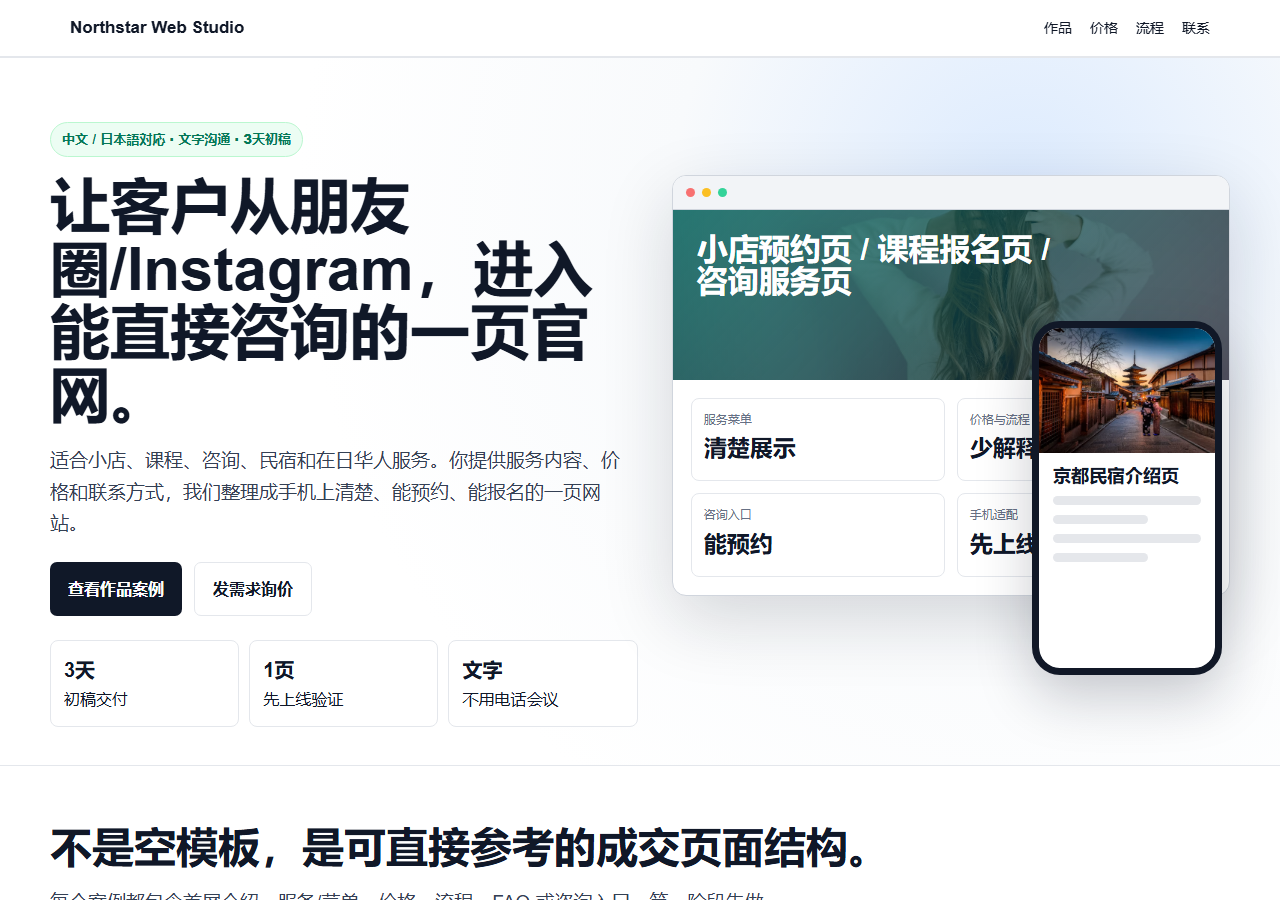
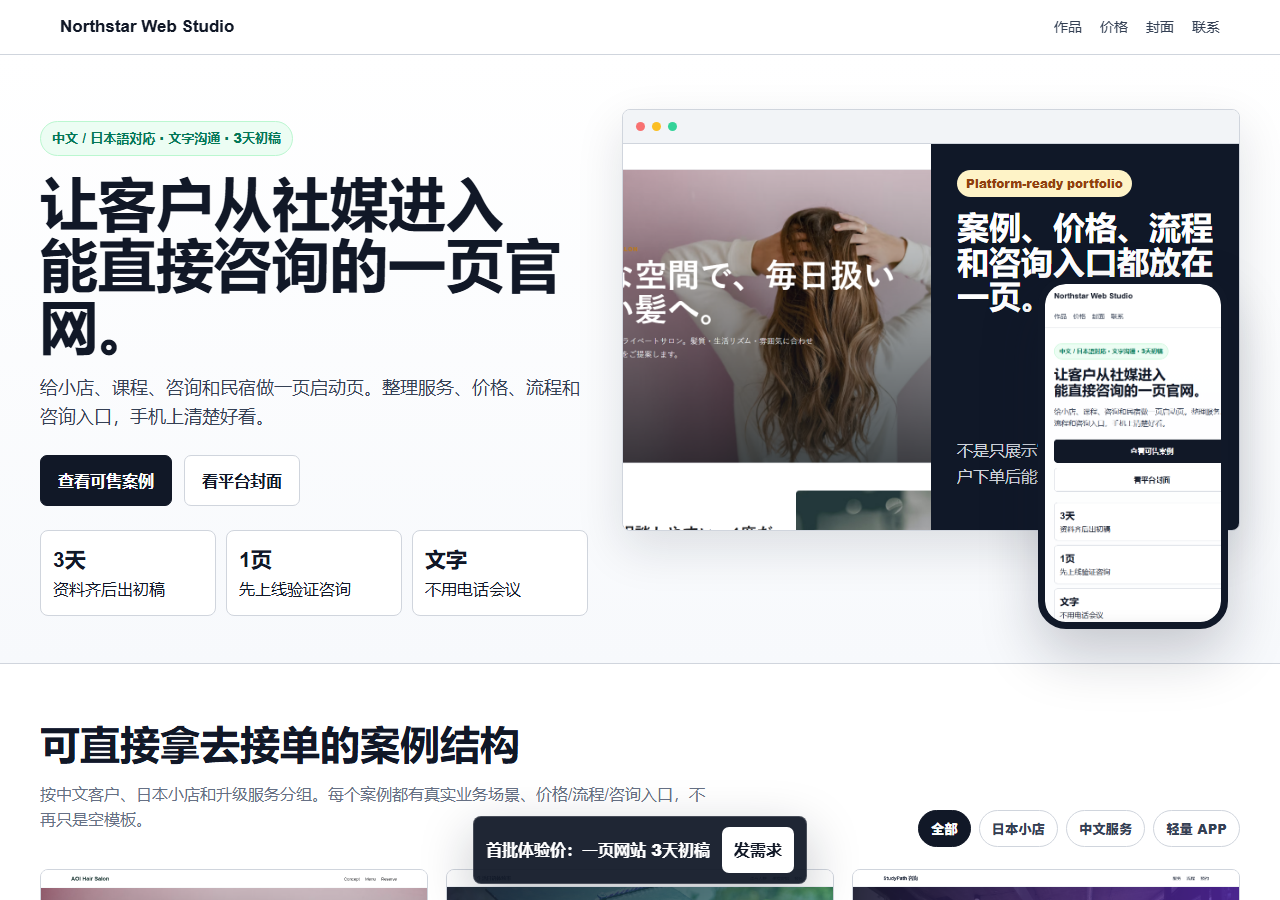
Add interactive portfolio experience

diff --git a/index.html b/index.html
@@ -3,159 +3,292 @@
 <head>
   <meta charset="utf-8">
   <meta name="viewport" content="width=device-width, initial-scale=1">
-  <title>Northstar Web Studio | 中文 / 日本語一页网站制作</title>
+  <title>Northstar Web Studio | 中文 / 日本語一页网站制作作品集</title>
   <style>
-    :root{--ink:#101828;--muted:#667085;--line:#e4e7ec;--paper:#fff;--soft:#f7f8fb;--teal:#0f766e;--blue:#2563eb;--gold:#d97706;--rose:#be123c}
+    :root{
+      --ink:#111827;--muted:#667085;--line:#d0d5dd;--paper:#fff;--soft:#f6f8fb;
+      --teal:#0f766e;--blue:#2563eb;--gold:#b45309;--rose:#be123c;--green:#047857;
+      --shadow:0 18px 48px rgba(17,24,39,.12)
+    }
     *{box-sizing:border-box}
-    body{margin:0;font-family:Arial,"Microsoft YaHei","Hiragino Kaku Gothic ProN","Yu Gothic",sans-serif;color:var(--ink);background:var(--soft);line-height:1.65}
-    header{position:sticky;top:0;z-index:20;background:rgba(255,255,255,.9);border-bottom:1px solid var(--line);backdrop-filter:blur(14px)}
-    nav{max-width:1180px;margin:auto;padding:14px 20px;display:flex;justify-content:space-between;align-items:center;gap:16px}
-    nav strong{font-size:17px}
-    nav a{color:var(--ink);text-decoration:none;margin-left:18px;font-size:14px}
-    .hero{padding:64px 20px 38px;background:radial-gradient(circle at 80% 20%,#dbeafe 0,#f8fafc 30%,#fff 62%)}
-    .wrap{max-width:1180px;margin:auto;width:100%}
-    .hero-grid{display:grid;grid-template-columns:1fr .95fr;gap:34px;align-items:center}
-    .eyebrow{display:inline-flex;align-items:center;gap:8px;background:#ecfdf3;color:#047857;border:1px solid #bbf7d0;border-radius:999px;padding:6px 11px;font-size:13px;font-weight:800;margin-bottom:18px}
-    h1{font-size:clamp(36px,5vw,60px);line-height:1.05;margin:0 0 18px;letter-spacing:0;max-width:680px}
-    h2{font-size:clamp(27px,4vw,42px);line-height:1.15;margin:0 0 14px;letter-spacing:0}
-    h3{margin:0 0 8px;font-size:20px}
+    html{scroll-behavior:smooth}
+    body{margin:0;font-family:Arial,"Microsoft YaHei","Hiragino Kaku Gothic ProN","Yu Gothic",sans-serif;color:var(--ink);background:var(--soft);line-height:1.62;overflow-x:hidden}
+    a{color:inherit}
+    header{position:sticky;top:0;z-index:50;background:rgba(255,255,255,.94);border-bottom:1px solid var(--line);backdrop-filter:blur(12px)}
+    nav{max-width:1200px;margin:auto;padding:13px 20px;display:flex;justify-content:space-between;align-items:center;gap:18px}
+    nav strong{font-size:17px;white-space:nowrap}
+    nav a{text-decoration:none;margin-left:18px;font-size:14px;color:#344054}
+    .wrap{max-width:1200px;margin:auto;width:100%}
+    .hero{background:linear-gradient(180deg,#fff,#f7f9fc);padding:54px 20px 34px;border-bottom:1px solid var(--line)}
+    .hero-grid{display:grid;grid-template-columns:.94fr 1.06fr;gap:34px;align-items:center}
+    .eyebrow{display:inline-flex;align-items:center;gap:8px;border:1px solid #bbf7d0;background:#ecfdf3;color:#047857;border-radius:999px;padding:6px 11px;font-size:13px;font-weight:800;margin-bottom:18px}
+    h1{font-size:clamp(34px,5vw,58px);line-height:1.06;letter-spacing:0;margin:0 0 16px;max-width:720px;overflow-wrap:anywhere;word-break:normal}
+    h2{font-size:clamp(26px,3.5vw,40px);line-height:1.15;letter-spacing:0;margin:0 0 14px}
+    h3{font-size:20px;margin:0 0 8px}
     p{margin:0 0 14px}
-    .lead{font-size:19px;color:#344054;max-width:760px}
+    .lead{font-size:18px;color:#344054;max-width:760px}
     .actions{display:flex;gap:12px;flex-wrap:wrap;margin-top:22px}
-    .btn{display:inline-flex;align-items:center;justify-content:center;background:var(--ink);color:white;text-decoration:none;font-weight:900;border-radius:7px;padding:13px 18px}
-    .btn.alt{background:white;color:var(--ink);border:1px solid var(--line)}
-    .proof{display:grid;grid-template-columns:repeat(3,1fr);gap:10px;margin-top:24px;max-width:720px}
-    .proof div{background:white;border:1px solid var(--line);border-radius:8px;padding:13px}
-    .proof strong{display:block;font-size:20px}
-    .showcase{position:relative;min-height:500px}
-    .browser{background:white;border:1px solid #d0d5dd;border-radius:14px;box-shadow:0 24px 70px rgba(16,24,40,.16);overflow:hidden}
-    .bar{height:34px;background:#f2f4f7;border-bottom:1px solid #d0d5dd;display:flex;align-items:center;gap:7px;padding:0 13px}
+    .btn{display:inline-flex;align-items:center;justify-content:center;gap:8px;min-height:46px;padding:12px 17px;border-radius:7px;border:1px solid var(--ink);background:var(--ink);color:white;text-decoration:none;font-weight:900;cursor:pointer}
+    .btn.alt{background:white;color:var(--ink);border-color:var(--line)}
+    .btn.teal{background:var(--teal);border-color:var(--teal)}
+    .micro{display:grid;grid-template-columns:repeat(3,1fr);gap:10px;margin-top:24px;max-width:720px}
+    .micro div{background:white;border:1px solid var(--line);border-radius:8px;padding:12px}
+    .micro strong{display:block;font-size:21px}
+    .stage{position:relative;min-height:520px}
+    .desktop{background:white;border:1px solid var(--line);border-radius:8px;box-shadow:var(--shadow);overflow:hidden}
+    .windowbar{height:34px;background:#f2f4f7;border-bottom:1px solid var(--line);display:flex;align-items:center;gap:7px;padding:0 13px}
     .dot{width:9px;height:9px;border-radius:50%;background:#f87171}.dot:nth-child(2){background:#fbbf24}.dot:nth-child(3){background:#34d399}
-    .preview-hero{height:170px;background:linear-gradient(135deg,rgba(15,118,110,.85),rgba(16,24,40,.68)),url("https://images.unsplash.com/photo-1522337360788-8b13dee7a37e?auto=format&fit=crop&w=1000&q=80") center/cover;color:white;padding:24px}
-    .preview-hero b{font-size:31px;line-height:1.05;display:block;max-width:360px}
-    .preview-body{padding:18px;display:grid;grid-template-columns:1fr 1fr;gap:12px}
-    .mini-card{border:1px solid var(--line);border-radius:8px;padding:12px;background:#fff}
-    .mini-card span{display:block;color:var(--muted);font-size:12px}.mini-card strong{font-size:23px}
-    .phone{position:absolute;right:8px;bottom:0;width:190px;background:#111827;border:7px solid #111827;border-radius:28px;box-shadow:0 22px 55px rgba(16,24,40,.22);overflow:hidden}
-    .phone-screen{background:white;min-height:340px;border-radius:20px;overflow:hidden}
-    .phone-visual{height:125px;background:url("https://images.unsplash.com/photo-1493976040374-85c8e12f0c0e?auto=format&fit=crop&w=500&q=80") center/cover}
-    .phone-text{padding:14px}.phone-text b{font-size:18px;line-height:1.1;display:block}.phone-line{height:9px;border-radius:999px;background:#e5e7eb;margin-top:10px}.phone-line.short{width:64%}
-    section{padding:58px 20px;background:white;border-top:1px solid var(--line)}
+    .screen{display:grid;grid-template-columns:1fr 1fr;min-height:386px}
+    .screen-visual{background:url("assets/case-salon-desktop.png") top center/cover}
+    .screen-copy{padding:26px;background:#101828;color:white;display:flex;flex-direction:column;justify-content:space-between}
+    .screen-copy span{display:inline-block;width:max-content;background:#fef3c7;color:#92400e;border-radius:999px;padding:4px 9px;font-size:12px;font-weight:900;margin-bottom:14px}
+    .screen-copy b{font-size:32px;line-height:1.08;display:block}
+    .screen-copy p{color:#d0d5dd}
+    .phone{position:absolute;right:12px;bottom:0;width:190px;background:#101828;border:7px solid #101828;border-radius:28px;box-shadow:0 24px 58px rgba(17,24,39,.22);overflow:hidden}
+    .phone img{display:block;width:100%;height:338px;object-fit:cover;object-position:top;border-radius:20px}
+    section{padding:58px 20px;background:white;border-bottom:1px solid var(--line)}
     section.alt{background:var(--soft)}
+    .section-head{display:flex;align-items:end;justify-content:space-between;gap:20px;margin-bottom:22px}
+    .section-head p{max-width:680px;color:var(--muted)}
+    .filters{display:flex;gap:8px;flex-wrap:wrap}
+    .chip{border:1px solid var(--line);background:white;border-radius:999px;padding:8px 12px;font-weight:800;color:#344054;cursor:pointer}
+    .chip.active{background:#111827;color:white;border-color:#111827}
     .grid{display:grid;grid-template-columns:repeat(3,1fr);gap:18px}
-    .case{display:block;text-decoration:none;color:var(--ink);background:white;border:1px solid var(--line);border-radius:10px;overflow:hidden;transition:transform .18s ease,box-shadow .18s ease}
-    .case:hover{transform:translateY(-3px);box-shadow:0 18px 40px rgba(16,24,40,.10)}
-    .case-img{height:190px;background-size:cover;background-position:center;position:relative}
-    .case-img:after{content:"";position:absolute;inset:0;background:linear-gradient(180deg,rgba(0,0,0,0),rgba(0,0,0,.34))}
-    .case-body{padding:18px}
-    .tag{display:inline-block;background:#eef4ff;color:#3538cd;border-radius:999px;padding:4px 9px;font-size:12px;font-weight:800;margin-bottom:10px}
+    .case{background:white;border:1px solid var(--line);border-radius:8px;overflow:hidden;box-shadow:0 1px 0 rgba(17,24,39,.03);display:flex;flex-direction:column}
+    .case.hide{display:none}
+    .case-shot{height:210px;background:#f2f4f7;overflow:hidden;border-bottom:1px solid var(--line)}
+    .case-shot img{width:100%;height:100%;object-fit:cover;object-position:top;display:block;transition:transform .25s ease}
+    .case:hover .case-shot img{transform:scale(1.035)}
+    .case-body{padding:18px;display:flex;flex-direction:column;gap:9px;flex:1}
+    .tag{display:inline-block;width:max-content;border-radius:999px;padding:4px 9px;font-size:12px;font-weight:900;background:#eef4ff;color:#3538cd}
     .tag.jp{background:#fff7ed;color:#b45309}.tag.cn{background:#ecfdf3;color:#047857}.tag.app{background:#fdf2f8;color:#be123c}
-    .case p,.package p,.step p{color:var(--muted)}
-    .package,.step{background:white;border:1px solid var(--line);border-radius:10px;padding:22px}
-    .price{font-size:34px;font-weight:950;color:var(--blue);letter-spacing:0}
-    .split{display:grid;grid-template-columns:1fr 1fr;gap:18px}
-    .quote{background:#101828;color:white;border-radius:12px;padding:28px}
-    .quote p{color:#d0d5dd}
-    footer{background:#101828;color:#cbd5e1;padding:32px 20px}
-    @media(max-width:920px){.hero-grid,.grid,.split,.proof{grid-template-columns:1fr}.showcase{min-height:auto}.phone{position:relative;right:auto;margin:18px auto 0}.preview-body{grid-template-columns:1fr}nav{flex-direction:column;align-items:flex-start}nav a{margin-left:0;margin-right:14px}}
+    .case p,.package p,.qa p,.cover p{color:var(--muted)}
+    .case-actions{display:flex;gap:9px;flex-wrap:wrap;margin-top:auto}
+    .smallbtn{border:1px solid var(--line);background:white;border-radius:7px;padding:9px 11px;text-decoration:none;font-weight:900;font-size:14px;cursor:pointer}
+    .smallbtn.dark{background:#111827;color:white;border-color:#111827}
+    .packages{display:grid;grid-template-columns:repeat(3,1fr);gap:18px}
+    .package{background:white;border:1px solid var(--line);border-radius:8px;padding:22px}
+    .price{font-size:34px;font-weight:950;color:var(--blue);letter-spacing:0;margin:8px 0}
+    .package ul,.detail ul{margin:14px 0 0;padding-left:18px;color:#344054}
+    .process{display:grid;grid-template-columns:repeat(4,1fr);gap:14px;counter-reset:step}
+    .step{background:white;border:1px solid var(--line);border-radius:8px;padding:18px}
+    .step:before{counter-increment:step;content:counter(step);display:grid;place-items:center;width:30px;height:30px;border-radius:50%;background:#111827;color:white;font-weight:900;margin-bottom:12px}
+    .covers{display:grid;grid-template-columns:1.35fr .65fr;gap:18px;align-items:start}
+    .cover{background:white;border:1px solid var(--line);border-radius:8px;padding:18px}
+    .cover img{width:100%;border:1px solid var(--line);border-radius:7px;display:block;background:#f2f4f7}
+    .cover-list{display:grid;gap:12px}
+    .qa{display:grid;grid-template-columns:1fr 1fr;gap:18px}
+    .qa div{background:#f8fafc;border:1px solid var(--line);border-radius:8px;padding:18px}
+    .sticky-cta{position:fixed;left:50%;bottom:16px;transform:translateX(-50%);z-index:60;background:rgba(17,24,39,.94);color:white;border:1px solid rgba(255,255,255,.18);border-radius:8px;padding:10px 12px;display:flex;align-items:center;gap:12px;box-shadow:0 18px 52px rgba(17,24,39,.25)}
+    .sticky-cta span{font-weight:900;white-space:nowrap}
+    .sticky-cta a{background:white;color:#111827;border-radius:7px;padding:10px 12px;text-decoration:none;font-weight:900;flex:0 0 auto}
+    dialog{border:0;border-radius:8px;padding:0;width:min(760px,calc(100vw - 28px));box-shadow:0 30px 90px rgba(17,24,39,.28)}
+    dialog::backdrop{background:rgba(17,24,39,.52)}
+    .modal-head{display:flex;justify-content:space-between;gap:12px;padding:18px 20px;border-bottom:1px solid var(--line)}
+    .modal-head button{border:1px solid var(--line);background:white;border-radius:7px;width:36px;height:36px;font-weight:900;cursor:pointer}
+    .detail{padding:20px}
+    .detail-grid{display:grid;grid-template-columns:1fr 1fr;gap:16px}
+    .detail-box{border:1px solid var(--line);border-radius:8px;padding:14px;background:#f8fafc}
+    footer{background:#101828;color:#cbd5e1;padding:34px 20px;margin-bottom:74px}
+    @media(max-width:960px){
+      .hero-grid,.grid,.packages,.process,.covers,.qa,.detail-grid,.screen{grid-template-columns:1fr}
+      .stage{min-height:auto}.phone{position:relative;right:auto;margin:16px auto 0}.screen-visual{min-height:260px}
+      .section-head{display:block}.filters{margin-top:14px}nav{align-items:flex-start;flex-direction:column}nav a{margin-left:0;margin-right:14px}
+      .sticky-cta{width:calc(100vw - 20px);justify-content:space-between}.sticky-cta span{font-size:13px;white-space:normal;line-height:1.25;flex:1}
+    }
+    @media(max-width:520px){h1{font-size:31px;line-height:1.12;word-break:break-all}.lead{font-size:16px;word-break:break-all}.wrap{max-width:100%;overflow:hidden}.micro{grid-template-columns:1fr}.hero{padding-top:34px}.sticky-cta a{padding:9px 10px}.sticky-cta span{white-space:normal}.actions .btn{width:100%}}
   </style>
 </head>
 <body>
   <header>
     <nav>
       <strong>Northstar Web Studio</strong>
-      <div><a href="#cases">作品</a><a href="#packages">价格</a><a href="#flow">流程</a><a href="#contact">联系</a></div>
+      <div><a href="#cases">作品</a><a href="#packages">价格</a><a href="#covers">封面</a><a href="#contact">联系</a></div>
     </nav>
   </header>
+
   <main>
     <section class="hero">
       <div class="wrap hero-grid">
         <div>
           <span class="eyebrow">中文 / 日本語対応 · 文字沟通 · 3天初稿</span>
-          <h1>让客户从朋友圈/Instagram，进入能直接咨询的一页官网。</h1>
-          <p class="lead">适合小店、课程、咨询、民宿和在日华人服务。你提供服务内容、价格和联系方式，我们整理成手机上清楚、能预约、能报名的一页网站。</p>
+          <h1>让客户从社媒进入<br>能直接咨询的一页官网。</h1>
+          <p class="lead">给小店、课程、咨询和民宿做一页启动页。整理服务、价格、流程和咨询入口，手机上清楚好看。</p>
           <div class="actions">
-            <a class="btn" href="#cases">查看作品案例</a>
-            <a class="btn alt" href="#contact">发需求询价</a>
+            <a class="btn" href="#cases">查看可售案例</a>
+            <a class="btn alt" href="#covers">看平台封面</a>
           </div>
-          <div class="proof">
-            <div><strong>3天</strong>初稿交付</div>
-            <div><strong>1页</strong>先上线验证</div>
+          <div class="micro">
+            <div><strong>3天</strong>资料齐后出初稿</div>
+            <div><strong>1页</strong>先上线验证咨询</div>
             <div><strong>文字</strong>不用电话会议</div>
           </div>
         </div>
-        <div class="showcase" aria-label="作品预览">
-          <div class="browser">
-            <div class="bar"><i class="dot"></i><i class="dot"></i><i class="dot"></i></div>
-            <div class="preview-hero"><b>小店预约页 / 课程报名页 / 咨询服务页</b></div>
-            <div class="preview-body">
-              <div class="mini-card"><span>服务菜单</span><strong>清楚展示</strong></div>
-              <div class="mini-card"><span>价格与流程</span><strong>少解释</strong></div>
-              <div class="mini-card"><span>咨询入口</span><strong>能预约</strong></div>
-              <div class="mini-card"><span>手机适配</span><strong>先上线</strong></div>
-            </div>
-          </div>
-          <div class="phone">
-            <div class="phone-screen">
-              <div class="phone-visual"></div>
-              <div class="phone-text">
-                <b>京都民宿介绍页</b>
-                <div class="phone-line"></div><div class="phone-line short"></div>
-                <div class="phone-line"></div><div class="phone-line short"></div>
+        <div class="stage">
+          <div class="desktop">
+            <div class="windowbar"><i class="dot"></i><i class="dot"></i><i class="dot"></i></div>
+            <div class="screen">
+              <div class="screen-visual"></div>
+              <div class="screen-copy">
+                <div><span>Platform-ready portfolio</span><b>案例、价格、流程和咨询入口都放在一页。</b></div>
+                <p>不是只展示“会做网页”，而是展示客户下单后能拿到什么。</p>
               </div>
             </div>
           </div>
+          <div class="phone"><img src="assets/cover-home-mobile.png" alt="手机端作品集预览"></div>
         </div>
       </div>
     </section>
 
     <section id="cases">
       <div class="wrap">
-        <h2>不是空模板，是可直接参考的成交页面结构。</h2>
-        <p class="lead">每个案例都包含首屏介绍、服务/菜单、价格、流程、FAQ 或咨询入口。第一阶段先做一页，让客户有一个可以打开的正式链接。</p>
-        <div class="grid">
-          <a class="case" href="samples/jp-salon-site.html"><div class="case-img" style="background-image:url('https://images.unsplash.com/photo-1522337360788-8b13dee7a37e?auto=format&fit=crop&w=1000&q=80')"></div><div class="case-body"><span class="tag jp">日本小店</span><h3>表参道美容室一页官网</h3><p>菜单、价格、营业时间、预约入口，适合美容室、美甲、整体。</p></div></a>
-          <a class="case" href="samples/cn-course-landing.html"><div class="case-img" style="background-image:url('https://images.unsplash.com/photo-1523580846011-d3a5bc25702b?auto=format&fit=crop&w=1000&q=80')"></div><div class="case-body"><span class="tag cn">中文课程</span><h3>日语生活口语报名页</h3><p>适合课程、训练营、留学辅导，把微信咨询变成公开报名页。</p></div></a>
-          <a class="case" href="samples/cn-consulting-page.html"><div class="case-img" style="background-image:url('https://images.unsplash.com/photo-1497366811353-6870744d04b2?auto=format&fit=crop&w=1000&q=80')"></div><div class="case-body"><span class="tag cn">咨询服务</span><h3>留学签证咨询预约页</h3><p>服务范围、收费方式、预约流程和 FAQ 集中展示。</p></div></a>
-          <a class="case" href="samples/jp-guesthouse-site.html"><div class="case-img" style="background-image:url('https://images.unsplash.com/photo-1493976040374-85c8e12f0c0e?auto=format&fit=crop&w=1000&q=80')"></div><div class="case-body"><span class="tag jp">中日双语</span><h3>京都民宿中日双语介绍页</h3><p>房型、价格、交通、入住规则和咨询入口，适合民宿/地方体验。</p></div></a>
-          <a class="case" href="samples/app-dashboard-demo.html"><div class="case-img" style="background-image:url('https://images.unsplash.com/photo-1551288049-bebda4e38f71?auto=format&fit=crop&w=1000&q=80')"></div><div class="case-body"><span class="tag app">升级服务</span><h3>小团队订单看板</h3><p>后续加价服务，用来管理咨询、报价、制作和交付状态。</p></div></a>
-          <a class="case" href="samples/index.html"><div class="case-img" style="background-image:url('https://images.unsplash.com/photo-1516321318423-f06f85e504b3?auto=format&fit=crop&w=1000&q=80')"></div><div class="case-body"><span class="tag">作品集</span><h3>完整样品集</h3><p>集中查看网站、落地页和轻量 APP 样品。</p></div></a>
+        <div class="section-head">
+          <div>
+            <h2>可直接拿去接单的案例结构</h2>
+            <p>按中文客户、日本小店和升级服务分组。每个案例都有真实业务场景、价格/流程/咨询入口，不再只是空模板。</p>
+          </div>
+          <div class="filters" aria-label="案例筛选">
+            <button class="chip active" data-filter="all">全部</button>
+            <button class="chip" data-filter="jp">日本小店</button>
+            <button class="chip" data-filter="cn">中文服务</button>
+            <button class="chip" data-filter="app">轻量 APP</button>
+          </div>
+        </div>
+
+        <div class="grid" id="caseGrid">
+          <article class="case" data-kind="jp" data-title="表参道美容室一页官网" data-url="samples/jp-salon-site.html" data-problem="SNS 有照片但菜单、营业时间和预约方式不够清楚。" data-result="把菜单、价格、营业时间、预约入口和安心感集中到一页，适合美容室、美甲、整体店。" data-price="JPY 9,800 起">
+            <div class="case-shot"><img src="assets/case-salon-desktop.png" alt="表参道美容室一页官网截图"></div>
+            <div class="case-body"><span class="tag jp">日本小店</span><h3>表参道美容室一页官网</h3><p>菜单、价格、营业时间、预约入口，适合美容室、美甲、整体。</p><div class="case-actions"><button class="smallbtn dark" data-detail>看详情</button><a class="smallbtn" href="samples/jp-salon-site.html">打开页面</a></div></div>
+          </article>
+
+          <article class="case" data-kind="cn" data-title="日语生活口语报名页" data-url="samples/cn-course-landing.html" data-problem="课程只靠朋友圈介绍，客户反复问适合谁、多少钱、怎么报名。" data-result="把适合人群、课程安排、老师介绍、价格和 FAQ 放在一页，方便报名咨询。" data-price="RMB 499 起">
+            <div class="case-shot"><img src="assets/case-course-desktop.png" alt="日语生活口语报名页截图"></div>
+            <div class="case-body"><span class="tag cn">中文服务</span><h3>日语生活口语报名页</h3><p>适合课程、训练营、留学辅导，把微信咨询变成公开报名页。</p><div class="case-actions"><button class="smallbtn dark" data-detail>看详情</button><a class="smallbtn" href="samples/cn-course-landing.html">打开页面</a></div></div>
+          </article>
+
+          <article class="case" data-kind="cn" data-title="留学签证咨询预约页" data-url="samples/cn-consulting-page.html" data-problem="咨询服务容易被反复问流程、费用和需要准备什么。" data-result="用服务范围、收费方式、预约流程和 FAQ 先筛选客户，减少重复解释。" data-price="RMB 499 起">
+            <div class="case-shot"><img src="assets/case-consulting-desktop.png" alt="留学签证咨询预约页截图"></div>
+            <div class="case-body"><span class="tag cn">中文服务</span><h3>留学签证咨询预约页</h3><p>服务范围、收费方式、预约流程和 FAQ 集中展示。</p><div class="case-actions"><button class="smallbtn dark" data-detail>看详情</button><a class="smallbtn" href="samples/cn-consulting-page.html">打开页面</a></div></div>
+          </article>
+
+          <article class="case" data-kind="jp" data-title="京都民宿中日双语介绍页" data-url="samples/jp-guesthouse-site.html" data-problem="民宿客户最常问房型、价格、交通、入住规则和联系方式。" data-result="把房型、价格、交通、入住规则和咨询入口做成中日双语介绍页。" data-price="JPY 19,800 起">
+            <div class="case-shot"><img src="https://images.unsplash.com/photo-1493976040374-85c8e12f0c0e?auto=format&fit=crop&w=1000&q=80" alt="京都民宿介绍页预览"></div>
+            <div class="case-body"><span class="tag jp">中日双语</span><h3>京都民宿中日双语介绍页</h3><p>适合民宿、短租、地方体验和中文游客接待。</p><div class="case-actions"><button class="smallbtn dark" data-detail>看详情</button><a class="smallbtn" href="samples/jp-guesthouse-site.html">打开页面</a></div></div>
+          </article>
+
+          <article class="case" data-kind="app" data-title="小团队订单看板" data-url="samples/app-dashboard-demo.html" data-problem="客户咨询、报价、制作和交付散落在 Excel/微信里，容易漏单。" data-result="用看板把状态集中起来，后续作为网站客户的升级服务销售。" data-price="RMB 1,999 起">
+            <div class="case-shot"><img src="https://images.unsplash.com/photo-1551288049-bebda4e38f71?auto=format&fit=crop&w=1000&q=80" alt="小团队订单看板预览"></div>
+            <div class="case-body"><span class="tag app">升级服务</span><h3>小团队订单看板</h3><p>管理咨询、报价、制作和交付状态，适合作为后续加价。</p><div class="case-actions"><button class="smallbtn dark" data-detail>看详情</button><a class="smallbtn" href="samples/app-dashboard-demo.html">打开页面</a></div></div>
+          </article>
+
+          <article class="case" data-kind="all" data-title="完整样品集" data-url="samples/index.html" data-problem="客户想一次看完整样品，而不是逐个打开链接。" data-result="集中展示所有网站、落地页和轻量 APP 方向，便于发给客户。" data-price="作品集入口">
+            <div class="case-shot"><img src="assets/cover-home-desktop.png" alt="完整样品集预览"></div>
+            <div class="case-body"><span class="tag">作品集</span><h3>完整样品集</h3><p>集中查看网站、落地页和轻量 APP 样品。</p><div class="case-actions"><button class="smallbtn dark" data-detail>看详情</button><a class="smallbtn" href="samples/index.html">打开页面</a></div></div>
+          </article>
         </div>
       </div>
     </section>
 
     <section class="alt" id="packages">
       <div class="wrap">
-        <h2>首批客户体验价：先做一页，先上线。</h2>
-        <div class="grid">
-          <div class="package"><h3>中文单页落地页</h3><p>服务介绍、价格/套餐、流程、FAQ、邮箱/微信咨询入口。</p><div class="price">RMB 499 起</div></div>
-          <div class="package"><h3>日本語 1ページ LP</h3><p>メニュー、料金、営業時間、予約導線をスマホで見やすく整理。</p><div class="price">JPY 9,800 起</div></div>
-          <div class="package"><h3>页面诊断 + 文案改稿</h3><p>已有页面但不清楚时，先改首屏、结构和咨询路径。</p><div class="price">RMB 199 / JPY 5,000</div></div>
+        <div class="section-head"><div><h2>低价启动包，不是廉价模板</h2><p>先用一页把业务讲清楚，后续有咨询再加页面、表单、预约或后台。</p></div></div>
+        <div class="packages">
+          <div class="package"><h3>中文单页落地页</h3><p>课程、咨询、小店、在日华人服务。</p><div class="price">RMB 499 起</div><ul><li>最多 5 个内容区块</li><li>手机适配</li><li>含 1 次文字修改</li><li>3 天初稿</li></ul></div>
+          <div class="package"><h3>日本語 1ページ LP</h3><p>美容室、ネイル、整体、教室、民宿。</p><div class="price">JPY 9,800 起</div><ul><li>メニュー・料金整理</li><li>スマホ対応</li><li>修正 1 回</li><li>3 日目安</li></ul></div>
+          <div class="package"><h3>页面诊断 + 文案改稿</h3><p>已有页面但客户看不懂时先做低价诊断。</p><div class="price">RMB 199 / JPY 5,000</div><ul><li>首屏问题</li><li>服务结构</li><li>CTA 文案</li><li>24 小时交付</li></ul></div>
         </div>
       </div>
     </section>
 
     <section id="flow">
-      <div class="wrap split">
-        <div>
-          <h2>低价不是廉价，是降低第一次合作门槛。</h2>
-          <p>为了让第一次合作成本更低，我们把范围控制在一页网站：服务介绍、价格/菜单、流程、FAQ、咨询入口，含一次文字修改。需要更多页面或预约/支付功能时，再单独加价。</p>
+      <div class="wrap">
+        <div class="section-head"><div><h2>客户下单后怎么交付</h2><p>流程要让客户觉得省事，也要控制低价单范围。</p></div></div>
+        <div class="process">
+          <div class="step"><h3>收资料</h3><p>业务名、服务内容、价格、联系方式、图片或参考风格。</p></div>
+          <div class="step"><h3>出结构</h3><p>整理首屏、服务、价格、流程、FAQ、咨询入口。</p></div>
+          <div class="step"><h3>做页面</h3><p>完成手机适配页面，发可打开链接给客户看。</p></div>
+          <div class="step"><h3>改一次</h3><p>客户用文字列修改点，我们完成一次小修改后交付。</p></div>
         </div>
-        <div class="quote">
-          <h3>你只需要提供</h3>
-          <p>业务名称、服务内容、价格/菜单、联系方式、图片或参考风格。没有完整文案也可以，我们先帮你整理成初稿。</p>
+      </div>
+    </section>
+
+    <section class="alt" id="covers">
+      <div class="wrap">
+        <div class="section-head"><div><h2>平台上架封面素材</h2><p>Coconala、Lancers、猪八戒可以先用这些图。封面文字另有上架包，避免违规词。</p></div></div>
+        <div class="covers">
+          <div class="cover"><img src="assets/cover-home-desktop.png" alt="作品集桌面封面"><div class="actions"><a class="smallbtn dark" href="assets/cover-home-desktop.png">打开桌面封面</a><a class="smallbtn" href="assets/cover-home-mobile.png">打开手机封面</a></div></div>
+          <div class="cover-list">
+            <div class="cover"><h3>Coconala 封面文案</h3><p>1ページLP制作 / 日本語・中国語対応 / 3日目安 / 修正1回 / 9,800円</p></div>
+            <div class="cover"><h3>猪八戒封面文案</h3><p>499元一页落地页 / 课程咨询小店适用 / 手机适配 / 3天交付</p></div>
+            <div class="cover"><h3>素材位置</h3><p>本地目录：D:\ai-monthly-income-project\agency-restart\assets</p></div>
+          </div>
         </div>
       </div>
     </section>
 
     <section id="contact">
       <div class="wrap">
-        <h2>先发文字需求，不需要电话。</h2>
-        <p class="lead">支持中文和日语文字沟通。请简单说明行业、页面类型、服务内容和希望客户点击什么按钮。</p>
-        <a class="btn" href="mailto:xzlhy129824@gmail.com?subject=网站制作咨询">邮件咨询制作</a>
+        <div class="qa">
+          <div><h2>为什么这种作品客户会更容易要？</h2><p>它不是展示“会写网页”，而是展示“客户买了之后可以少解释、看起来正规、能接咨询”。小商家和课程客户更关心这个。</p></div>
+          <div><h2>现在还缺什么？</h2><p>真实成交案例和客户评价。第一单完成后，要立刻把真实客户页面替换掉样品页，平台转化率会明显提高。</p><a class="btn teal" href="mailto:xzlhy129824@gmail.com?subject=网站制作咨询">邮件咨询制作</a></div>
+        </div>
       </div>
     </section>
   </main>
+
+  <div class="sticky-cta"><span>首批体验价：一页网站 3天初稿</span><a href="mailto:xzlhy129824@gmail.com?subject=网站制作咨询">发需求</a></div>
+
+  <dialog id="caseDialog">
+    <div class="modal-head"><strong id="modalTitle">案例详情</strong><button id="closeDialog" aria-label="关闭">×</button></div>
+    <div class="detail">
+      <div class="detail-grid">
+        <div class="detail-box"><h3>客户问题</h3><p id="modalProblem"></p></div>
+        <div class="detail-box"><h3>页面结果</h3><p id="modalResult"></p></div>
+      </div>
+      <ul>
+        <li id="modalPrice"></li>
+        <li>交付方式：文字沟通，资料齐全后出初稿。</li>
+        <li>适合低预算客户先上线，再根据真实咨询情况加功能。</li>
+      </ul>
+      <div class="actions"><a class="btn" id="modalOpen" href="#">打开案例页</a><a class="btn alt" href="#packages">查看价格</a></div>
+    </div>
+  </dialog>
+
   <footer><div class="wrap">Northstar Web Studio · Websites, landing pages and lightweight apps</div></footer>
+
+  <script>
+    const chips = document.querySelectorAll(".chip");
+    const cases = document.querySelectorAll(".case");
+    chips.forEach(chip => {
+      chip.addEventListener("click", () => {
+        chips.forEach(c => c.classList.remove("active"));
+        chip.classList.add("active");
+        const filter = chip.dataset.filter;
+        cases.forEach(card => {
+          const kind = card.dataset.kind;
+          card.classList.toggle("hide", !(filter === "all" || kind === filter || kind === "all"));
+        });
+      });
+    });
+
+    const dialog = document.getElementById("caseDialog");
+    const title = document.getElementById("modalTitle");
+    const problem = document.getElementById("modalProblem");
+    const result = document.getElementById("modalResult");
+    const price = document.getElementById("modalPrice");
+    const open = document.getElementById("modalOpen");
+    document.querySelectorAll("[data-detail]").forEach(button => {
+      button.addEventListener("click", () => {
+        const card = button.closest(".case");
+        title.textContent = card.dataset.title;
+        problem.textContent = card.dataset.problem;
+        result.textContent = card.dataset.result;
+        price.textContent = "参考价格：" + card.dataset.price;
+        open.href = card.dataset.url;
+        if (dialog.showModal) dialog.showModal();
+      });
+    });
+    document.getElementById("closeDialog").addEventListener("click", () => dialog.close());
+  </script>
 </body>
 </html>
